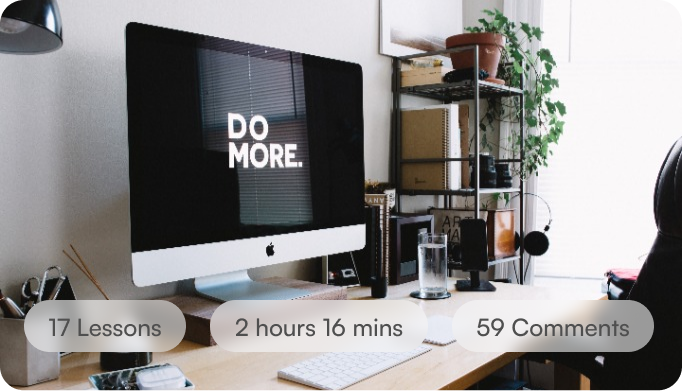
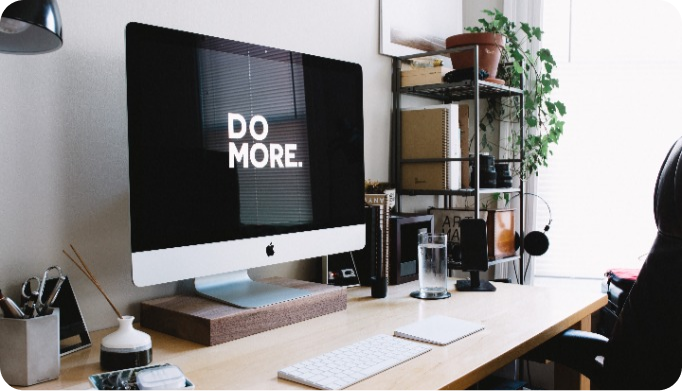
fix polish cta, courses, grouth sections

Changed region(s): [[0.3079, 0.7673, 0.6158, 0.9207], [0.0308, 0.7673, 0.2771, 0.9207], [0.6774, 0.7673, 0.9853, 0.9207]]

diff --git a/src/components/features/growth-manage-section.tsx b/src/components/features/growth-manage-section.tsx
@@ -116,60 +116,96 @@ export default function GrowthManageSection() {
 
                     <div className="lg:col-span-6 relative flex items-center justify-center lg:justify-end">
                         <div className="relative w-full max-w-[550px] h-[500px] sm:h-[540px]">
-                            <div className="absolute left-0 sm:left-2 top-2 sm:top-4 w-[285px] sm:w-[325px] bg-white rounded-[28px] border border-[#DDDEE0] p-3.5 sm:p-4 shadow-[0_10px_32px_rgba(0,0,0,0.06)] z-10 pointer-events-none">
-                                <div className="relative w-full aspect-16/10 rounded-[20px] overflow-hidden">
+                            <div className="absolute left-0 sm:-left-12 top-2 sm:top-4 w-[315px] sm:w-[355px] md:w-[370px] bg-white rounded-[28px] sm:rounded-[32px] border border-[#DDDEE0] p-4 sm:p-4.5 shadow-[0_12px_36px_rgba(0,0,0,0.06)] z-10 pointer-events-none">
+                                <div className="relative w-full aspect-[341/196] rounded-[18px] sm:rounded-[20px] overflow-hidden bg-[#F5F5F6]">
                                     <Image
                                         src="/courses/course-1.png"
                                         alt="Learn Figma from Basic"
                                         fill
-                                        sizes="(max-width: 640px) 285px, 325px"
+                                        sizes="(max-width: 640px) 315px, 370px"
                                         className="object-cover"
                                     />
-                                    <div className="absolute bottom-2.5 left-2.5 right-2.5 flex items-center justify-between gap-1.5">
-                                        <span className="px-2.5 py-1 rounded-full bg-white/85 backdrop-blur-xs text-[11px] font-medium text-[#111111] shadow-xs">
+                                    <div className="absolute bottom-2.5 left-2.5 right-2.5 flex items-center justify-between gap-1 select-none">
+                                        <span className="px-2.5 py-1 rounded-full bg-white/80 backdrop-blur-md text-[10.5px] sm:text-[11.5px] font-medium text-[#242528] shadow-xs whitespace-nowrap">
                                             17 Lessons
                                         </span>
-                                        <span className="px-2.5 py-1 rounded-full bg-white/85 backdrop-blur-xs text-[11px] font-medium text-[#111111] shadow-xs">
+                                        <span className="px-2.5 py-1 rounded-full bg-white/80 backdrop-blur-md text-[10.5px] sm:text-[11.5px] font-medium text-[#242528] shadow-xs whitespace-nowrap">
                                             2 hours 16 mins
+                                        </span>
+                                        <span className="px-2.5 py-1 rounded-full bg-white/80 backdrop-blur-md text-[10.5px] sm:text-[11.5px] font-medium text-[#242528] shadow-xs whitespace-nowrap">
+                                            59 Comments
                                         </span>
                                     </div>
                                 </div>
-                                <div className="mt-3">
-                                    <h3 className="font-poppins font-semibold text-[16px] sm:text-[17px] text-[#111111] leading-snug">
+
+                                <div className="mt-4 flex items-center justify-between gap-2">
+                                    <h3 className="font-poppins font-semibold text-[17px] sm:text-[18px] text-[#111111] leading-tight">
                                         Learn Figma from Basic
                                     </h3>
-                                    <p className="mt-1 text-[13px] text-[#82868E]">
-                                        by{" "}
-                                        <span className="text-[#003BE2] font-medium">
-                                            purepearl studio
+                                    <div className="flex items-center gap-1 shrink-0">
+                                        <span className="text-[15px] sm:text-[16px] font-medium text-[#4F4F4F] leading-none">
+                                            4.5
                                         </span>
-                                    </p>
+                                        <AiFillStar className="text-[#D4FB20] text-[18px] sm:text-[19px]" />
+                                    </div>
                                 </div>
-                                <div className="mt-3.5 pt-3 border-t border-[#F0F1F3] flex items-center justify-between">
-                                    <div className="inline-flex items-center gap-1.5 px-2.5 py-1 rounded-full bg-[#F3F4F6] text-[12px] font-medium text-[#414244]">
+
+                                <p className="mt-1 sm:mt-1.5 text-[13px] text-[#82868E]">
+                                    by{" "}
+                                    <span className="text-[#003BE2] font-medium">
+                                        purepearl studio
+                                    </span>
+                                </p>
+
+                                <div className="mt-4 sm:mt-4.5 flex items-center gap-2.5 sm:gap-3">
+                                    <div className="inline-flex items-center gap-1.5 px-3 sm:px-3.5 py-1.5 rounded-full bg-[#F5F5F7] text-[12px] sm:text-[13px] font-medium text-[#414244]">
                                         <svg
-                                            className="w-3.5 h-3.5 text-[#6B7280]"
+                                            width="13"
+                                            height="13"
                                             viewBox="0 0 16 16"
                                             fill="currentColor"
+                                            className="text-[#414244] shrink-0"
                                             aria-hidden="true"
                                         >
-                                            <path d="M2 11h2v3H2zm5-4h2v7H7zm5-6h2v13h-2z" />
+                                            <rect x="2" y="10" width="2.5" height="4" rx="1" />
+                                            <rect x="6.75" y="6" width="2.5" height="8" rx="1" />
+                                            <rect x="11.5" y="2" width="2.5" height="12" rx="1" />
                                         </svg>
                                         <span>Beginner</span>
                                     </div>
 
-                                    <div className="flex items-baseline">
-                                        <span className="text-[20px] font-bold text-[#003BE2]">
-                                            $25
-                                        </span>
-                                        <span className="text-[12px] text-[#82868E] ml-0.5">
-                                            /lifetime
-                                        </span>
+                                    <div className="flex items-center -space-x-2">
+                                        {happyStudentAvatars.slice(0, 4).map((src, i) => (
+                                            <div
+                                                key={i}
+                                                className="relative w-7.5 h-7.5 sm:w-8 sm:h-8 rounded-full border-2 border-white overflow-hidden shadow-xs shrink-0"
+                                            >
+                                                <Image
+                                                    src={src}
+                                                    alt={`Student ${i + 1}`}
+                                                    fill
+                                                    sizes="32px"
+                                                    className="object-cover"
+                                                />
+                                            </div>
+                                        ))}
+                                        <div className="relative w-7.5 h-7.5 sm:w-8 sm:h-8 rounded-full bg-black text-white text-[10.5px] sm:text-[11px] font-semibold flex items-center justify-center border-2 border-white shadow-xs shrink-0 z-10">
+                                            26+
+                                        </div>
                                     </div>
+                                </div>
+
+                                <div className="mt-3.5 sm:mt-4 flex items-baseline">
+                                    <span className="text-[22px] sm:text-[24px] font-bold text-[#003BE2] leading-none">
+                                        $25
+                                    </span>
+                                    <span className="text-[12px] sm:text-[13px] text-[#82868E] ml-1 font-normal">
+                                        /lifetime
+                                    </span>
                                 </div>
                             </div>
 
-                            <div className="absolute top-[80px] sm:top-[90px] right-2 sm:right-6 w-[125px] sm:w-[180px] z-50 pointer-events-none">
+                            <div className="absolute top-[80px] sm:top-[80px] right-2 sm:-right-6 w-[125px] sm:w-[190px] z-50 pointer-events-none">
                                 <Image
                                     src="/images/patterns/pattern-8.png"
                                     alt="Decorative Lime 3D Spiral"
@@ -190,11 +226,11 @@ export default function GrowthManageSection() {
                                 />
                             </div>
 
-                            <div className="absolute top-[180px] sm:top-[200px] right-0 sm:right-2 z-30 bg-white/95 backdrop-blur-md rounded-[20px] p-4 sm:p-5 shadow-[0_16px_36px_rgba(0,0,0,0.12)] border border-white/80 min-w-[175px] sm:min-w-[195px]">
+                            <div className="absolute top-[180px] sm:top-[230px] right-0 sm:right-4 z-30 bg-white/95 backdrop-blur-md rounded-[20px] p-4 sm:p-5 shadow-[0_16px_36px_rgba(0,0,0,0.12)] border border-white/80 min-w-[175px] sm:min-w-[235px]">
                                 <span className="block text-[12px] sm:text-[13px] text-[#55575B] font-medium leading-none">
                                     Learning Progress
                                 </span>
-                                <span className="block text-[32px] sm:text-[38px] font-poppins font-bold text-[#111111] leading-none my-3.5">
+                                <span className="block text-[32px] sm:text-[38px] font-poppins font-bold text-[#111111] leading-none my-4.5">
                                     55%
                                 </span>
                                 <div className="w-full h-[8px] bg-[#EAECEF] rounded-full overflow-hidden">
